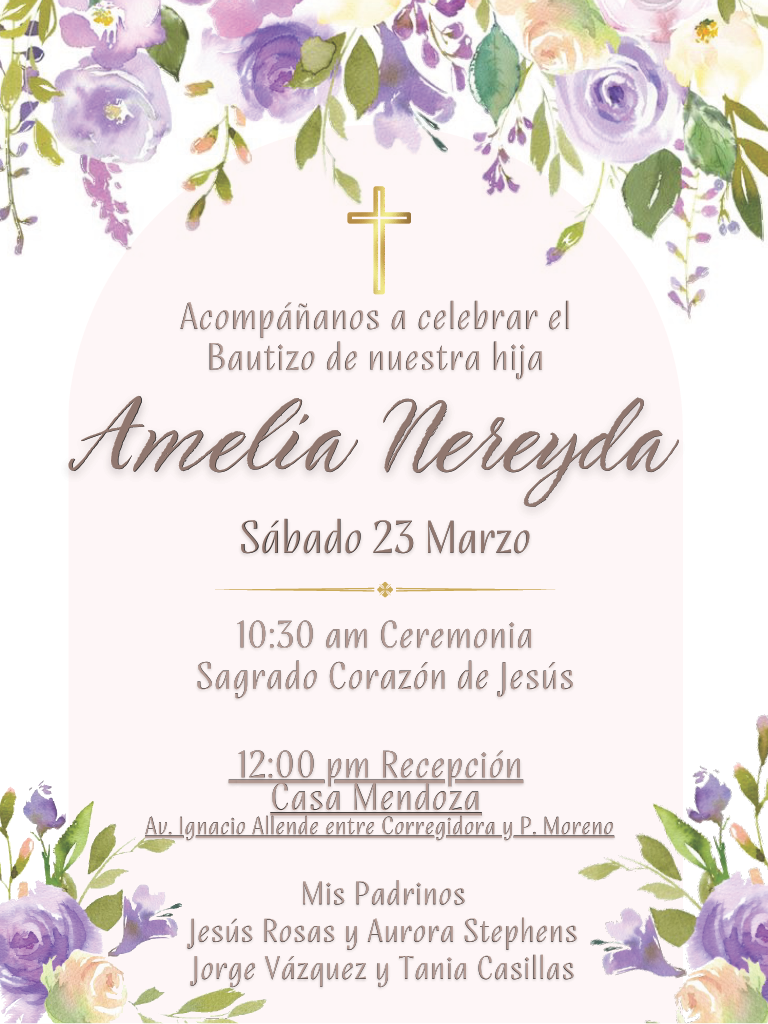
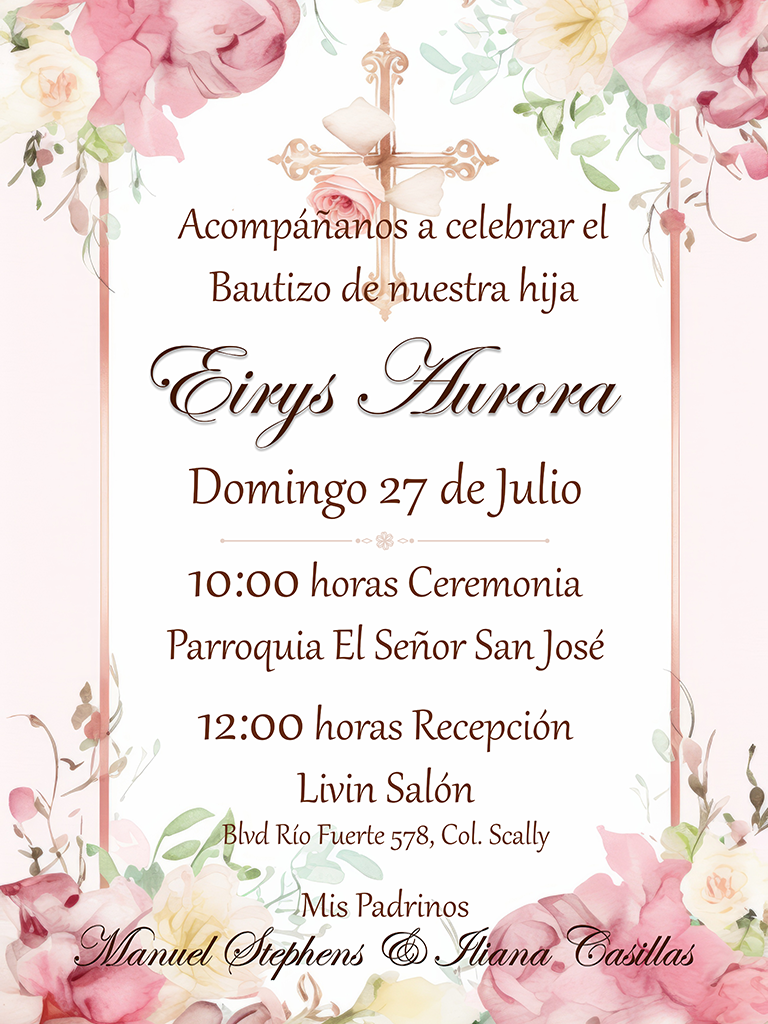
Add Eirys

diff --git a/index.html b/index.html
@@ -6,22 +6,22 @@
 	<head>
 	<meta charset="utf-8">
 	<meta http-equiv="X-UA-Compatible" content="IE=edge">
-	<title>Bautizo Amelia - 23.03.2024</title>
+	<title>Bautizo Eirys - 27.07.2025</title>
 	<meta name="viewport" content="width=device-width, initial-scale=1">
-	<meta name="description" content="Acompañanos a celebrar el bautizo de nuestra hija Amelia Nereyda - 23.03.2024." />
-	<meta name="keywords" content="bautizo,amelia,rsvp" />
+	<meta name="description" content="Acompañanos a celebrar el bautizo de nuestra hija Eirys Aurora - 27.07.2025." />
+	<meta name="keywords" content="bautizo,eirys,rsvp" />
 	<meta name="author" content="Manuel Casillas" />
 
   	<!-- Facebook and Twitter integration -->
 	<meta property="og:image" content="images/og.jpg"/>
-	<meta property="og:site_name" content="Bautizo Amelia - 23.03.2024">
-    <meta property="og:title" content="Bautizo Amelia - 23.03.2024">
-    <meta property="og:description" content="Acompañanos a celebrar el bautizo de nuestra hija Amelia Nereyda - 23.03.2024.">
+	<meta property="og:site_name" content="Bautizo Eirys - 27.07.2025">
+    <meta property="og:title" content="Bautizo Eirys - 27.07.2025">
+    <meta property="og:description" content="Acompañanos a celebrar el bautizo de nuestra hija Eirys Aurora - 27.07.2025.">
 	<!-- Size of image. Any size up to 300. Anything above 300px will not work in WhatsApp -->
-    <meta property="og:image:width" content="1079">
-    <meta property="og:image:height" content="850">
+    <meta property="og:image:width" content="797">
+    <meta property="og:image:height" content="575">
     <!-- Website to visit when clicked in fb or WhatsApp-->
-    <meta property="og:url" content="https://amelia.bautizo.constloop.com">
+    <meta property="og:url" content="https://eirys.constloop.com">
 	<meta property="og:type" content="website"/>
     <meta property="og:image:type" content="image/jpeg">
 
@@ -82,7 +82,7 @@
 	<header id="fh5co-header" class="fh5co-cover" role="banner" style="background-image:url(images/inv.png);">
 		<!-- <div class="overlay"></div> -->
 		<!-- <div class="container">
-			<img src="images/inv.png" alt="amelia" class="inv-center">
+			<img src="images/inv.png" alt="Eirys" class="inv-center">
 		</div> -->
 	</header>
 
@@ -123,15 +123,15 @@
 									<h3>Ceremonia</h3>
 									<div class="event-col">
 										<i class="icon-calendar"></i>
-										<span>23 Marzo 2023</span>
+										<span>27 Julio 2025</span>
 									</div>
 									<div class="event-col">
 
 										<i class="icon-clock"></i>
-										<span>10:30 AM</span>
+										<span>10:00 AM</span>
 									</div>
-									<p>Iglesia <b>Sagrado Corazon de Jesús. Navojoa, Son.</b> </p>
-									<iframe src="https://www.google.com/maps/embed?pb=!1m18!1m12!1m3!1d5404.347971251405!2d-109.45222649688947!3d27.082185612586773!2m3!1f0!2f0!3f0!3m2!1i1024!2i768!4f13.1!3m3!1m2!1s0x86b81b38c94a87f1%3A0x45debbb8a9d4fd47!2sParroquia%20del%20Sagrado%20Coraz%C3%B3n%20de%20Jes%C3%BAs!5e0!3m2!1sen!2sse!4v1705237860107!5m2!1sen!2sse" width="300" height="200" style="border:0;" allowfullscreen="" loading="lazy" referrerpolicy="no-referrer-when-downgrade"></iframe>
+									<p>Parroquia <b>El Señor San José</b> </p>
+									<iframe src="https://www.google.com/maps/embed?pb=!1m18!1m12!1m3!1d3424.246601882595!2d-108.9953086!3d25.782046500000003!2m3!1f0!2f0!3f0!3m2!1i1024!2i768!4f13.1!3m3!1m2!1s0x86ba2f5f18be4c91%3A0x56145f6cd7a04f01!2sParroquia%20El%20Se%C3%B1or%20San%20Jos%C3%A9!5e1!3m2!1sen!2sse!4v1748551697013!5m2!1sen!2sse" width="300" height="200" style="border:0;" allowfullscreen="" loading="lazy" referrerpolicy="no-referrer-when-downgrade"></iframe>
 								</div>
 							</div>
 							<div class="col-md-6 col-sm-6 text-center">
@@ -139,15 +139,15 @@
 									<h3>Recepción</h3>
 									<div class="event-col">
 										<i class="icon-calendar"></i>
-										<span>23 Marzo 2023</span>
+										<span>27 Julio 2025</span>
 									</div>
 									<div class="event-col">
 
 										<i class="icon-clock"></i>
 										<span>12:00 PM</span>
 									</div>
-									<p>En <b>Casa Mendoza. Navojoa, Son.</b></p>
-									<iframe src="https://www.google.com/maps/embed?pb=!1m18!1m12!1m3!1d596.3203984291706!2d-109.4576613133378!3d27.07670913697444!2m3!1f0!2f0!3f0!3m2!1i1024!2i768!4f13.1!3m3!1m2!1s0x86b81b004503aeb1%3A0x7f65ceed4dccfb73!2sCasa%20Mendoza!5e0!3m2!1sen!2sse!4v1706792815998!5m2!1sen!2sse" width="300" height="200" style="border:0;" allowfullscreen="" loading="lazy" referrerpolicy="no-referrer-when-downgrade"></iframe>
+									<p>En <b>Livin Salón</b></p>
+									<iframe src="https://www.google.com/maps/embed?pb=!1m18!1m12!1m3!1d3423.648687466813!2d-108.9995147248034!3d25.80275067732613!2m3!1f0!2f0!3f0!3m2!1i1024!2i768!4f13.1!3m3!1m2!1s0x86ba29759d516491%3A0xe3d33b30aed3c255!2sLivin%20Sal%C3%B3n%20de%20Eventos!5e1!3m2!1sen!2sse!4v1748551873676!5m2!1sen!2sse" width="300" height="200" style="border:0;" allowfullscreen="" loading="lazy" referrerpolicy="no-referrer-when-downgrade"></iframe>
 								</div>
 							</div>
 						</div>
@@ -193,13 +193,19 @@
 								<input type="name" class="form-control" id="name" name="name" placeholder="Nombre" required>
 							</div>
 						</div>
-						<div class="col-md-4 col-sm-4">
+						<div class="col-md-2 col-sm-2">
 							<div class="form-group">
-								<label for="number" class="sr-only">Número de personas</label>
-								<input type="number" min="1" oninput="validity.valid||(value='');" class="form-control" id="number" name="number" placeholder="Número de personas" required>
+								<label for="number" class="sr-only">Adultos</label>
+								<input type="number" min="1" oninput="validity.valid||(value='');" class="form-control" id="number" name="number" placeholder="Adultos" required>
 							</div>
 						</div>
-						<div class="col-md-4 col-sm-4">
+						<div class="col-md-3 col-sm-3">
+							<div class="form-group">
+								<label for="number" class="sr-only">Niños</label>
+								<input type="number" min="0" oninput="validity.valid||(value='');" class="form-control" id="children" name="children" placeholder="Niños (0-12 años)" required>
+							</div>
+						</div>
+						<div class="col-md-3 col-sm-3">
 							<button class="btn btn-default btn-block">Enviar</button>
 						</div>
 					</form>
@@ -237,6 +243,6 @@
 	<script src="js/rsvp.js"></script>
 	<!-- Main -->
 	<script src="js/main.js"></script>
-	<center> Made with ❤ for Beatriz, Amelia & Nymeria </center>
+	<center> Made with ❤ for Beatriz, Eirys, Amelia & Nymeria </center>
 	</body>
 </html>

diff --git a/js/clock.js b/js/clock.js
@@ -5,7 +5,7 @@ $(document).ready(function() {
   let currentDate = new Date();
 
   // Target future date/24 hour time/Timezone
-  let targetDate = moment.tz("2024-03-24 10:30", "MST");
+  let targetDate = moment.tz("2025-07-27 10:00", "MST");
 
   // Calculate the difference in seconds between the future and current date
   let diff = targetDate / 1000 - currentDate.getTime() / 1000;

diff --git a/README.md b/README.md
@@ -1,1 +1,1 @@
-Amelia's baptism invitation project.
+Eirys's baptism invitation project.
